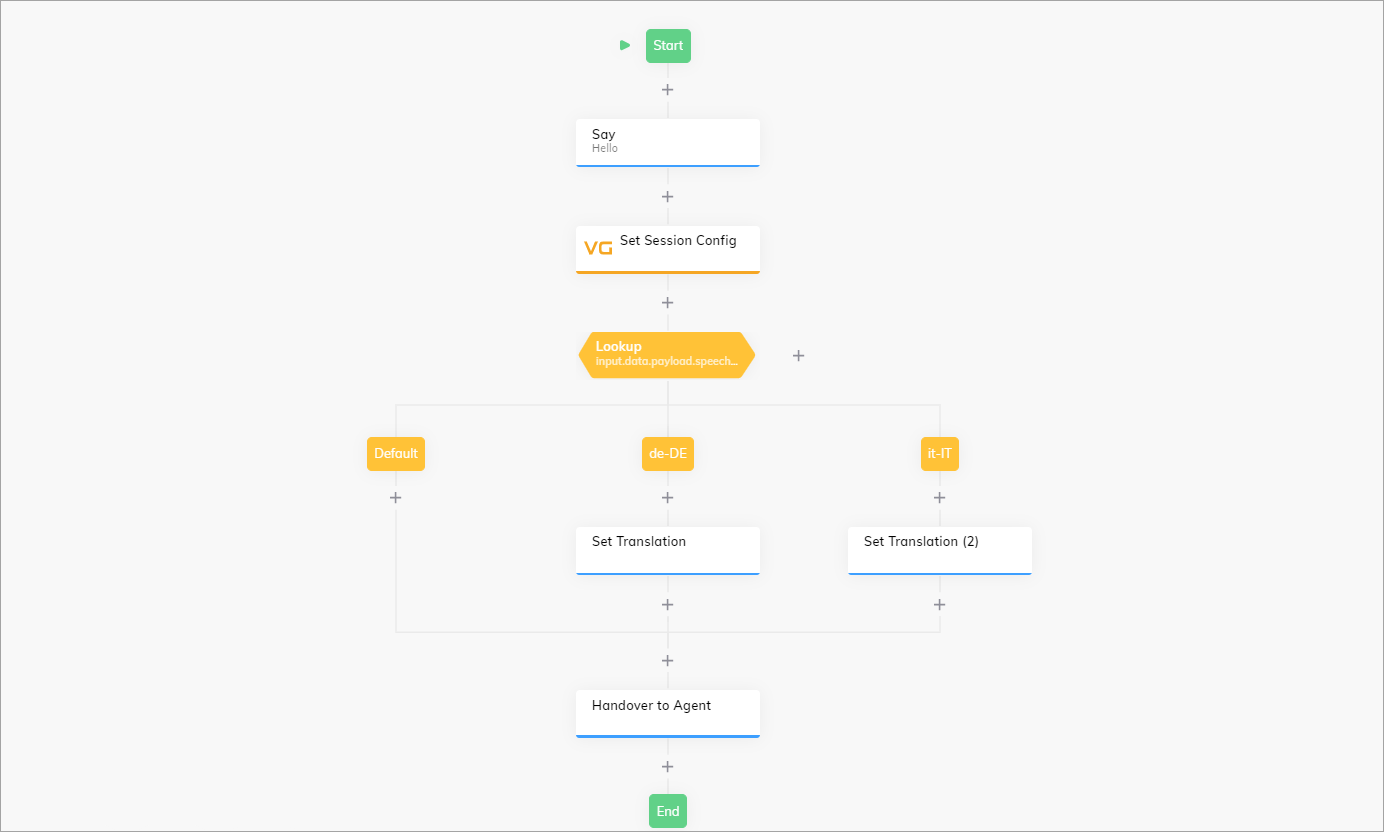
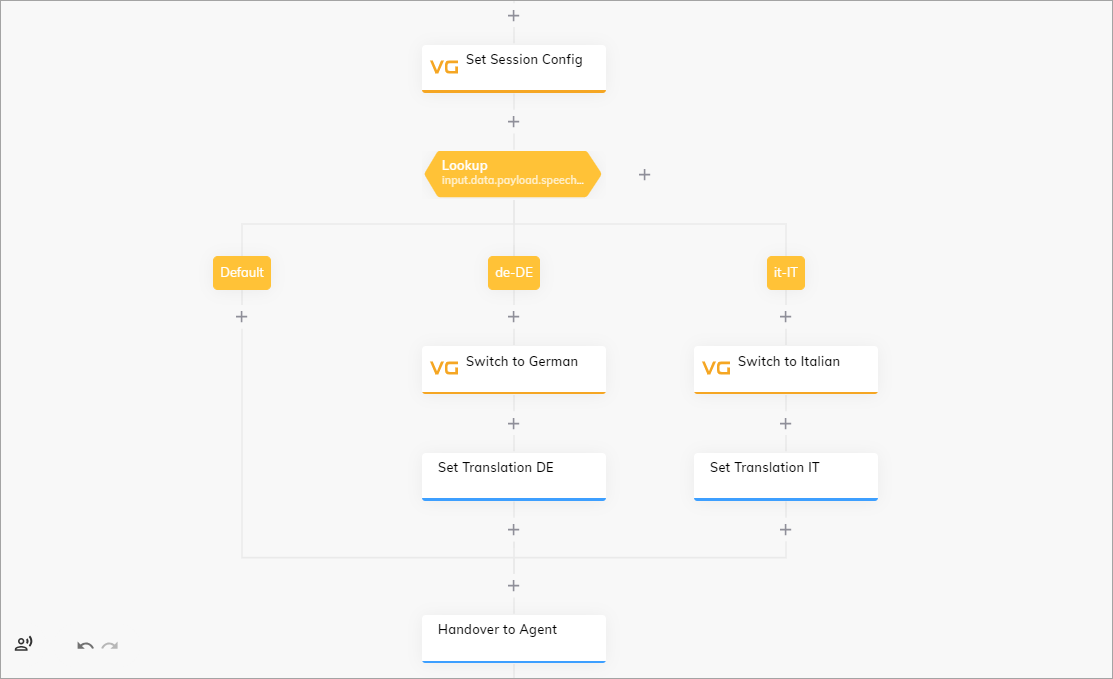
updates after Dilek's review

diff --git a/docs/en/docs/ai/endpoints/voice-gateway.md b/docs/en/docs/ai/endpoints/voice-gateway.md
@@ -218,13 +218,14 @@ To set up a multilingual Flow for the handover use case, follow these steps:
 7. Click **Save Node**. 
 8. In the case Nodes of the Lookup Node, specify the language codes, for example, `de-DE`, `it-IT`. 
 9. Click **Save Node**. 
-10. Below each case Node, add a [Set Translation](../nodes/other-nodes/set-translation.md) Node. 
-11. In the Set Translation Node, activate the **Translation Enabled** toggle. 
-12. In the **User Input Language** field, specify the language of the user input, for example, `de`. 
-13. In the **Flow Language** field, specify the language to translate to, for example, `en`. 
-14. Create a second Set Translation Node and repeat the steps for another language, for example Italian. 
-15. Click **Save Node**. 
-16. At the end of the Flow, place the [Handover to Agent](../nodes/service/handover-to-agent.md) Node.
+10. Below each case Node, add the second [Set Session Config](../nodes/voice/voice-gateway/parameter-details.md) Nodes.
+11. Configure the TTS and STT settings for each of the Set Session Config Nodes. This means that one Node should have German language selected, while the other should have Italian. These Nodes will manage the voice agent's communication in the end user's language. 
+12. Below each Set Session Config Node, add the [Set Translation](../nodes/other-nodes/set-translation.md) Nodes. These Nodes will perform translation of a text from the end user's language to the human agent's language. 
+13. In the Set Translation Node, activate the **Translation Enabled** toggle. 
+14. In the **User Input Language** field, specify the language of the user input, for example, `de`, `it`. 
+15. In the **Flow Language** field, specify the language to translate to, for example, `en`. 
+16. Save your changes. 
+17. At the end of the Flow, place the [Handover to Agent](../nodes/service/handover-to-agent.md) Node.
 
 <figure>
   <img class="image-center" src="{{config.site_url}}ai/endpoints/images/voice-gateway-handover.png" width="100%" />
